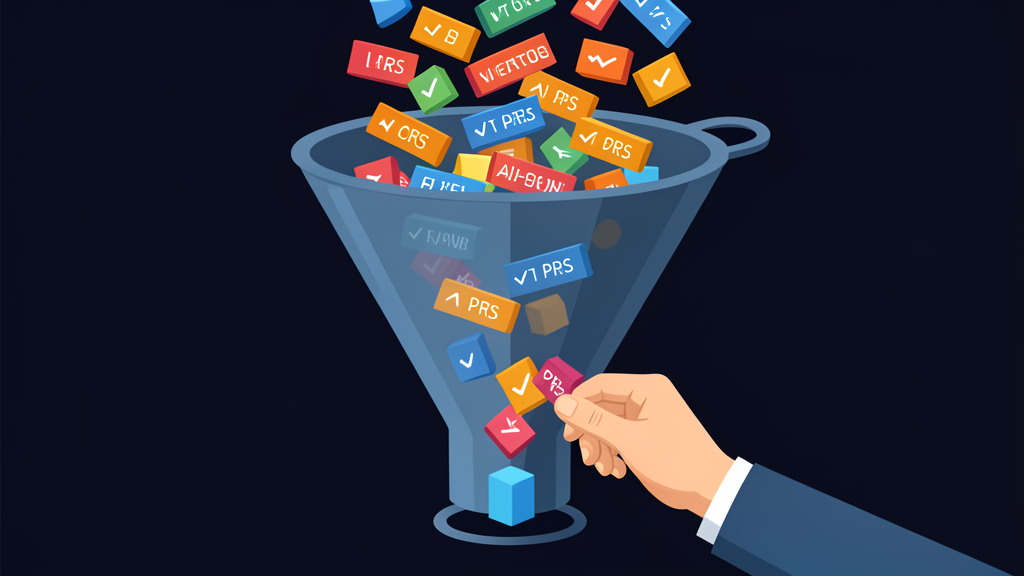
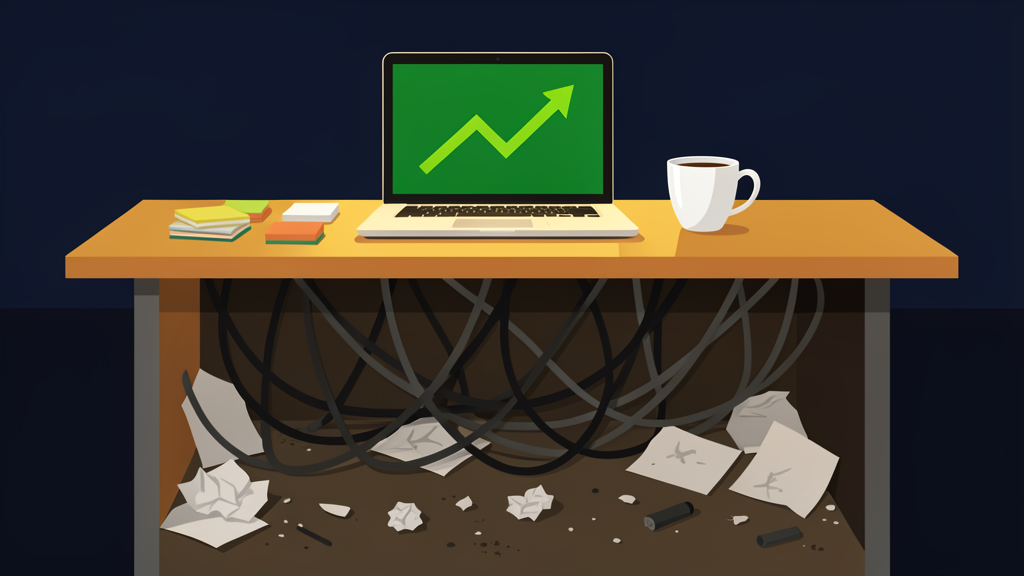
blog: regenerate images 2 and 3 for article #4
Image 2: funnel infographic → desk cutaway (pristine above, tangled chaos below)
Image 3: dashboard with '89%' text → tower of blocks (green pristine top, crumbling dark bottom)

Both now text-free, metaphorical, matching flat vector style of images 1 and 4.
Updated in both src/content/blog/ and article markdown.

diff --git a/src/content/blog/ai-two-tier-engineering-economy.md b/src/content/blog/ai-two-tier-engineering-economy.md
@@ -49,7 +49,7 @@ Gabriel Scherer, an OCaml maintainer, said reviewing AI-generated code is "more 
 
 Nobody promoted them for it.
 
-![A funnel filters AI-generated code, human hands inspect and remove defective pieces](./ai-two-tier-engineering-economy/images/visual-2-funnel.png)
+![A pristine desk surface with a laptop showing green growth, hiding a chaotic tangled mess of cables and debris below](./ai-two-tier-engineering-economy/images/visual-2-funnel.png)
 
 ## The review tax
 
@@ -81,7 +81,7 @@ The same ambiguity applies to the acceptance rates. AI-generated PRs may have lo
 
 Engineering metrics were already broken before AI. Story points got inflated. Commits got split. Lines of code got padded. AI did not break the metrics. It made the breakage obvious.
 
-![A dashboard shows green metrics while the foundation cracks beneath](./ai-two-tier-engineering-economy/images/visual-3-dashboard.png)
+![A tower of green pristine blocks on top, dark crumbling cracked blocks on the bottom, spotlight on the green section](./ai-two-tier-engineering-economy/images/visual-3-dashboard.png)
 
 When a junior engineer ships three times more PRs with AI assistance and a senior engineer spends their day reviewing them, the junior looks like a 10x developer. The senior looks like they are falling behind. The organisation rewards the wrong person. The senior burns out. Nobody notices until the codebase starts rotting.
 
